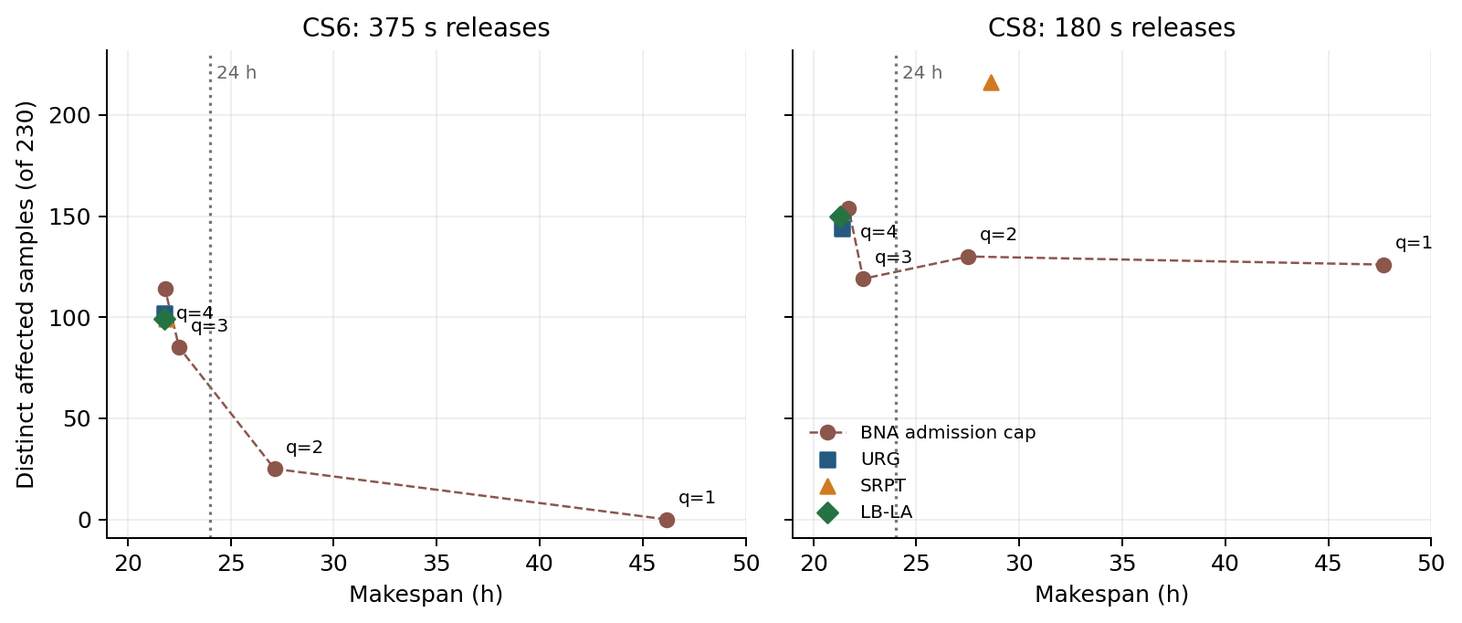
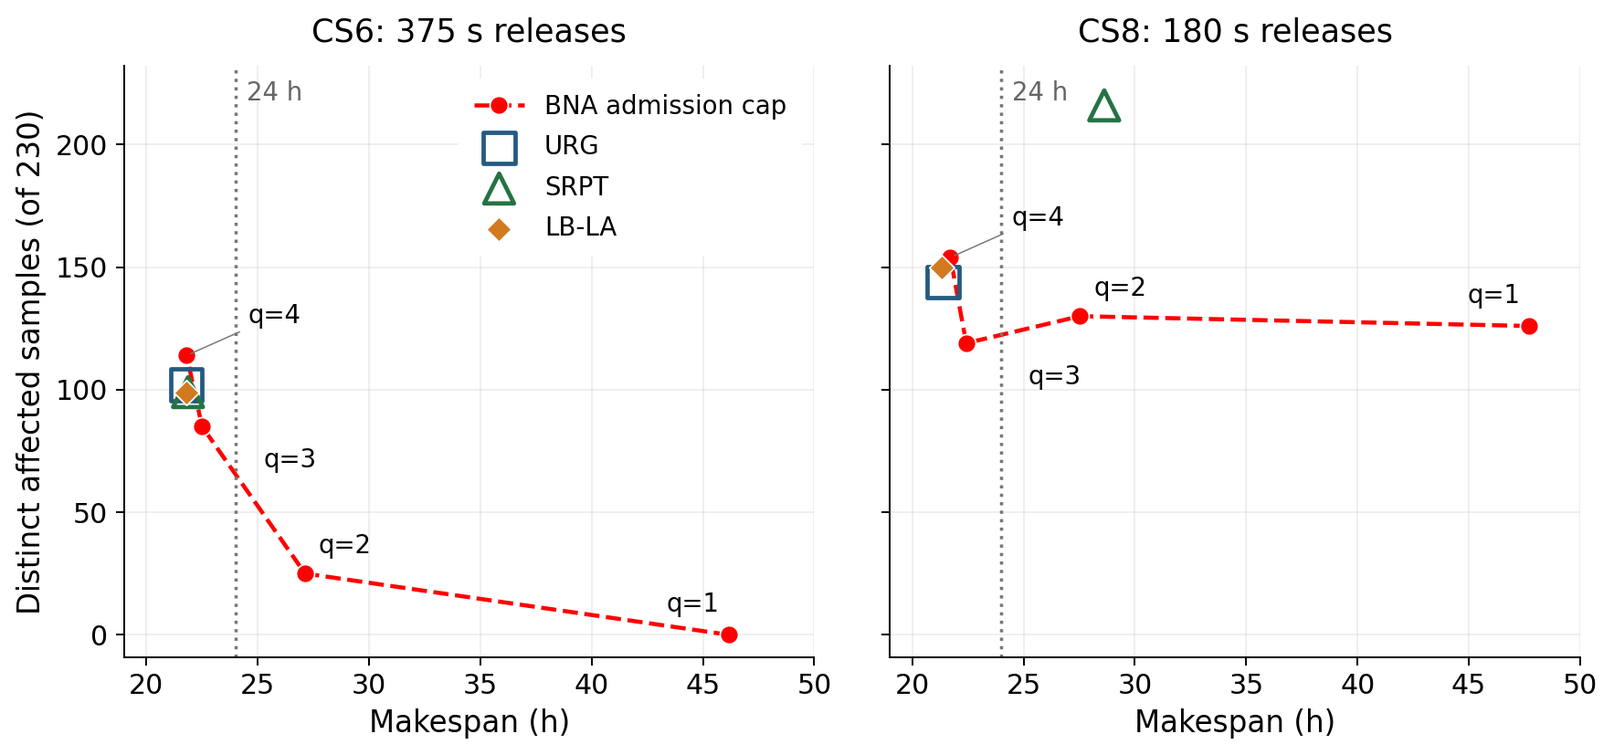
Improve publication figure contrast and fit tables to text width

diff --git a/code/make_tables.py b/code/make_tables.py
@@ -5,14 +5,15 @@ ROOT=Path(__file__).resolve().parents[1]
 OUT=ROOT/'tables';OUT.mkdir(exist_ok=True)
 def rows(name):return list(csv.DictReader((ROOT/'data'/name).open()))
 def num(r,key,d=0):return f'{float(r[key]):,.{d}f}'
-def table(name,caption,label,align,header,body,wide=False):
+def table(name,caption,label,align,header,body,textwidth=False):
     text='\\begin{table}[!htbp]\n'
-    if wide:text+='\\begin{adjustwidth}{-\\extralength}{0cm}\n'
     text+='\\caption{'+caption+'\\label{'+label+'}}\n\\centering\n\\footnotesize\n'
-    text+='\\begin{tabular}{'+align+'}\n\\toprule\n'+header+'\\\\\n\\midrule\n'
+    environment='tabular*' if textwidth else 'tabular'
+    if textwidth:text+='\\setlength{\\tabcolsep}{3pt}\n'
+    spec='{\\textwidth}{@{\\extracolsep{\\fill}}'+align+'@{}}' if textwidth else '{'+align+'}'
+    text+='\\begin{'+environment+'}'+spec+'\n\\toprule\n'+header+'\\\\\n\\midrule\n'
     text+='\n'.join(' & '.join(map(str,row))+'\\\\' for row in body)
-    text+='\n\\bottomrule\n\\end{tabular}\n'
-    if wide:text+='\\end{adjustwidth}\n'
+    text+='\n\\bottomrule\n\\end{'+environment+'}\n'
     text+='\\end{table}\n';(OUT/name).write_text(text)
 
 def main():
@@ -32,43 +33,43 @@ def main():
         r=data['cs6_fullday',p];o=op['cs6_fullday',p]
         b.append([p,f"{float(r['makespan_s'])/3600:.2f}",num(r,'violations'),num(r,'affected_samples'),
                   num(o,'p95_wait_s',1),num(o,'p95_external_s',1),num(o,'max_external_backlog'),f"{float(r['mean_flow_s'])/3600:.2f}"])
-    table('tab_cs6_expanded.tex','Design-day performance at the 300 s budget. Quantiles include all internal stage waits; external waiting is release-to-first-pickup. URG-MECT exactly duplicates URG and is retained as a control in the package.','tab:kpi-cs6','lrrrrrrr','Policy & $C_{\\max}$ (h) & Events & Affected & Wait $P_{95}$ (s) & External $P_{95}$ (s) & Peak queue & Mean flow (h)',b,True)
+    table('tab_cs6_expanded.tex','Design-day performance at the 300 s waiting budget.','tab:kpi-cs6','lrrrrrrr','Policy & \\shortstack{$C_{\\max}$\\\\(h)} & Events & Affected & \\shortstack{Wait\\\\$P_{95}$ (s)} & \\shortstack{External\\\\$P_{95}$ (s)} & \\shortstack{Peak\\\\queue} & \\shortstack{Mean flow\\\\(h)}',b,True)
     b=[]
     for n in names:
         b.append([labels[n]]+[f"{float(data[n,p]['makespan_s'])/3600:.2f} / {data[n,p]['violations']} / {data[n,p]['affected_samples']}" for p in policies])
-    table('tab_primary.tex','Paired policy comparisons. Each entry is makespan in hours / violated stage budgets / distinct affected samples. BNA uses admission cap 2.','tab:summary','lrrrr','Case & URG & SRPT & BNA & LB-LA',b,True)
+    table('tab_primary.tex','Policy comparison: makespan (h) / violation events / affected samples.','tab:summary','lrrrr','Case & URG & SRPT & BNA & LB-LA',b,True)
     b=[]
     for r in rows('lower_bounds.csv'):
         excess=float(r['best_makespan_s'])-float(r['certificate_lb_s'])
         b.append([labels[r['case']],num(r,'capacity_lb_s'),num(r,'robot_lb_s'),num(r,'release_path_lb_s'),num(r,'headtail_lb_s'),num(r,'best_makespan_s'),f'{excess:,.0f}',num(r,'certified_gap_pct',2)])
-    table('tab_gaps_expanded.tex','Operational certificate components. Excess is best-policy makespan minus the certificate in seconds; the percentage gap uses the certificate as denominator. Waiting limits are relaxed.','tab:gaps','lrrrrrrr','Case & Machine & Loaded robot & Path & Head/tail & Best $C_{\\max}$ & Excess & Gap (\\%)',b,True)
+    table('tab_gaps_expanded.tex','Operational certificate components and best-policy gaps; times in seconds.','tab:gaps','lrrrrrrr','Case & Machine & \\shortstack{Loaded\\\\robot} & Path & Head/tail & \\shortstack{Best\\\\$C_{\\max}$} & Excess & \\shortstack{Gap\\\\(\\%)}',b,True)
     b=[]
     for r in rows('waiting_by_transition.csv'):
         if r['case']=='cs6_fullday' and r['policy']=='URG' and int(r['violations']):
             b.append([f"{r['origin_k']} $\\to$ {r['destination_k']}",r['transitions'],r['violations'],f"{100*int(r['violations'])/114:.1f}",num(r,'p50_wait_s',1),num(r,'p95_wait_s',1),num(r,'max_wait_s',1),num(r,'mean_excess_s',1)])
-    table('tab_wait_stages.tex','CS6-URG transitions with violations. Shares refer to the 114 violation events. Waiting quantiles refer to all occurrences of that transition; mean excess refers only to its violations. Module names are given in Table~\\ref{tab:modules}.','tab:wait-stages','lrrrrrrr','Transition & Occurrences & Events & Share (\\%) & $P_{50}$ (s) & $P_{95}$ (s) & Max (s) & Mean excess (s)',b,True)
+    table('tab_wait_stages.tex','Violating transitions in CS6-URG; module codes follow Table~\\ref{tab:modules}.','tab:wait-stages','lrrrrrrr','Transition & Count & Events & \\shortstack{Share\\\\(\\%)} & \\shortstack{$P_{50}$\\\\(s)} & \\shortstack{$P_{95}$\\\\(s)} & \\shortstack{Max\\\\(s)} & \\shortstack{Mean excess\\\\(s)}',b,True)
     b=[]
     for r in rows('waiting_by_class.csv'):
         if r['case']=='cs6_fullday' and r['policy']=='URG':
             b.append([r['sample_type'].replace('SVOC_E',r'SVOC$_E$'),r['n_samples'],r['affected_samples'],r['violations'],num(r,'p95_wait_s',1),num(r,'mean_flow_s',1),num(r,'p95_external_s',1)])
-    table('tab_wait_classes.tex','CS6-URG diagnosis by sample class. Affected counts are distinct jobs, event counts may count a job more than once, and waiting quantiles include every internal stage in the class.','tab:wait-classes','lrrrrrr','Class & Jobs & Affected & Events & Wait $P_{95}$ (s) & Mean flow (s) & External $P_{95}$ (s)',b,True)
+    table('tab_wait_classes.tex','CS6-URG waiting and flow metrics by sample class.','tab:wait-classes','lrrrrrr','Class & Jobs & Affected & Events & \\shortstack{Wait\\\\$P_{95}$ (s)} & \\shortstack{Mean flow\\\\(s)} & \\shortstack{External\\\\$P_{95}$ (s)}',b,True)
     b=[]
-    pretty={'full':'Full score','no_starvation':'No starvation','no_new_violation':r'$w_{viol}=0$','no_overshoot':r'$w_{over}=0$','no_wait_penalties':'Both wait weights zero','no_slack_band':'Slack band removed','selected_wait':'Selected-wait penalty'}
+    pretty={'full':'Full score','no_starvation':'No starvation','no_new_violation':r'$w_{viol}=0$','no_overshoot':r'$w_{over}=0$','no_wait_penalties':r'$w_{viol}=w_{over}=0$','no_slack_band':'Slack band removed','selected_wait':'Selected-wait penalty'}
     for r in rows('ablations.csv'):
         b.append([labels[r['case']],pretty[r['variant']],num(r,'makespan_s',2),r['violations'],r['affected_samples'],r['local_changed_decisions'],r['sequence_changed_epochs']])
-    table('tab_ablations.tex','Score ablations. Local changes compare counterfactual actions at the full-score states; sequence changes compare the independently executed action sequences by epoch. Both counts include sample and destination choices.','tab:ablations','llrrrrr','Case & Variant & $C_{\\max}$ (s) & Events & Affected & Local changes & Sequence changes',b,True)
+    table('tab_ablations.tex','Score ablations: outcomes and changes in local actions or executed sequences.','tab:ablations','llrrrrr','Case & Variant & \\shortstack{$C_{\\max}$\\\\(s)} & Events & Affected & \\shortstack{Local\\\\changes} & \\shortstack{Sequence\\\\changes}',b,True)
     physical={(r['case'],r['variant']):r for r in rows('physical_sensitivity.csv') if r['policy']=='LB-LA'}
     variants=[('separated_nominal','Separate nominal matrices'),('empty_no_dwell','Empty dwell 0 s'),('empty_half_dwell','Empty dwell 7.135 s'),('loaded_dwell_minus20','Loaded dwell $-20\\%$'),('loaded_dwell_plus20','Loaded dwell $+20\\%$'),('traverse_half_speed','Traverse speed 0.75 m/s'),('traverse_double_speed','Traverse speed 3 m/s'),('auxiliary_5.0s','Auxiliary 5 s/transfer'),('auxiliary_10.0s','Auxiliary 10 s/transfer'),('auxiliary_15.0s','Auxiliary 15 s/transfer'),('auxiliary_30.0s','Auxiliary 30 s/transfer')]
     b=[]
     for v,label in variants:
         a=physical['cs6_fullday',v];c=physical['cs8_day180',v]
         b.append([label,f"{float(a['makespan_s'])/3600:.2f}",f"{a['violations']} / {a['affected_samples']}",f"{float(c['makespan_s'])/3600:.2f}",f"{c['violations']} / {c['affected_samples']}"])
-    table('tab_physical.tex','Physical-time stress tests under LB-LA. Event / affected counts use 300 s. Motion variants use separately reconstructed dwell-plus-traverse matrices; auxiliary variants retain the archived matrix and add robot occupation before each pickup. These are uncalibrated scenarios.','tab:physical','lrrrr','Timing scenario & CS6 (h) & CS6 events / affected & CS8 (h) & CS8 events / affected',b,True)
+    table('tab_physical.tex','Uncalibrated physical-time stress tests under LB-LA; events / affected samples at 300 s.','tab:physical','lrrrr',' & \\multicolumn{2}{c}{CS6} & \\multicolumn{2}{c}{CS8}\\\\\\cmidrule(lr){2-3}\\cmidrule(lr){4-5} Timing scenario & $C_{\\max}$ (h) & Events / affected & $C_{\\max}$ (h) & Events / affected',b,True)
     ar={(r['case'],r['admission_cap']):r for r in rows('admission_sensitivity.csv')};b=[]
     for cap in ['1','2','3','4']:
         a=ar['cs6_fullday',cap];c=ar['cs8_day180',cap]
         b.append([cap,f"{float(a['makespan_s'])/3600:.2f}",f"{a['violations']} / {a['affected_samples']}",a['max_external_backlog'],f"{float(a['p95_external_s'])/3600:.2f}",f"{float(c['makespan_s'])/3600:.2f}",f"{c['violations']} / {c['affected_samples']}"])
-    table('tab_admission.tex','Admission-cap sensitivity. The cap counts Method-2 jobs admitted upstream of or at Pipet C until extraction completion and pickup to the next stage. The same cap is applied to analytical and QC2 jobs.','tab:admission','rrrrrrr','Cap & CS6 (h) & Events / affected & Peak external queue & External $P_{95}$ (h) & CS8 (h) & Events / affected',b,True)
+    table('tab_admission.tex','BNA admission-cap sensitivity; events / affected samples at 300 s.','tab:admission','rrrrrrr',' & \\multicolumn{4}{c}{CS6} & \\multicolumn{2}{c}{CS8}\\\\\\cmidrule(lr){2-5}\\cmidrule(lr){6-7} Cap & \\shortstack{$C_{\\max}$\\\\(h)} & \\shortstack{Events /\\\\affected} & \\shortstack{Peak external\\\\queue} & \\shortstack{External\\\\$P_{95}$ (h)} & \\shortstack{$C_{\\max}$\\\\(h)} & \\shortstack{Events /\\\\affected}',b,True)
     b=[]
     for W in ['150.0','300.0','600.0','900.0']:
         subset=[r for r in rows('threshold_sensitivity.csv') if r['case']=='cs6_fullday' and r['threshold_s']==W]
@@ -79,7 +80,7 @@ def main():
         b=[]
         for r in rows('hard_wait_results.csv'):
             b.append([r['instance'],r['n_samples'],r['status'],num(r,'incumbent_s',2),num(r,'dual_bound_s',2),num(r,'max_wait_s',2)])
-        table('tab_hard_wait.tex','Reduced hard-wait checks with a 120 s SCIP limit. Every reported incumbent passes the timestamp and physical-capacity audit. A time limit leaves optimality unresolved; it does not imply infeasibility.','tab:hardwait','lrlrrr','Instance & Jobs & Solver status & Incumbent (s) & Dual bound (s) & Max wait (s)',b,True)
+        table('tab_hard_wait.tex','Reduced hard-wait checks with a 120 s SCIP limit.','tab:hardwait','lrlrrr','Instance & Jobs & Solver status & \\shortstack{Incumbent\\\\(s)} & \\shortstack{Dual bound\\\\(s)} & \\shortstack{Max wait\\\\(s)}',b,True)
     if args.paper_dir:
         import shutil
         (args.paper_dir/'tables').mkdir(exist_ok=True)

diff --git a/code/make_figures.py b/code/make_figures.py
@@ -18,7 +18,7 @@ def save(fig,name):
     plt.close(fig)
 def csvrows(n):return list(csv.DictReader((ROOT/'data'/n).open()))
 def trace(case,policy):return json.loads((ROOT/'validation/corrected_runs'/case/policy/'trace.json').read_text())
-COLORS={'URG':'#245a81','SRPT':'#d17a20','BNA':'#8c564b','LB-LA':'#257343'}
+COLORS={'URG':'#245a81','SRPT':'#257343','BNA':'#ff0000','LB-LA':'#d17a20'}
 stagecolors={6:'#80a9c4',7:'#99c998',8:'#dedede',9:'#4e9b8e',10:'#b28abc',11:'#d7a2b2',12:'#b7cbd6',13:'#6580ae',14:'#9c9c9c'}
 stagenames={6:'De-capper, 1000 mL',7:'Dosing (Pipet A)',8:'Stirring',9:'HC extraction (Pipet B)',10:'SVOC extraction (Pipet C)',11:'Concentration',12:'De-capper, centrifuge',13:'Centrifugation',14:'GC-vial transfer (Pipet D)'}
 r=trace('cs1_nominal','LB-LA');cfg=json.loads((ROOT/'instances/cs1_nominal_config.json').read_text());types={s['id']:s['type'] for s in cfg['samples']}
@@ -56,18 +56,36 @@ ax.set_xscale('log');ax.set_xlim(1,4000);ax.invert_yaxis();ax.set_xlabel('Intern
 ax.grid(axis='x',alpha=.2);ax.legend(loc='lower right',frameon=False);fig.tight_layout();save(fig,'fig_waiting_cs6')
 
 primary={(r['case'],r['policy']):r for r in csvrows('kpi_campaign.csv')};ad=csvrows('admission_sensitivity.csv')
-fig,axes=plt.subplots(1,2,figsize=(9,3.9),sharey=True)
-for ax,case,title in zip(axes,['cs6_fullday','cs8_day180'],['CS6: 375 s releases','CS8: 180 s releases']):
-    subset=[r for r in ad if r['case']==case];xs=[float(r['makespan_s'])/3600 for r in subset];ys=[int(r['affected_samples']) for r in subset]
-    ax.plot(xs,ys,'o--',color=COLORS['BNA'],ms=6,lw=1,label='BNA admission cap')
-    for r,x,y in zip(subset,xs,ys):ax.annotate('q='+r['admission_cap'],(x,y),xytext=(5,7 if r['admission_cap']!='4' else -13),textcoords='offset points',fontsize=8)
-    for p,marker in [('URG','s'),('SRPT','^'),('LB-LA','D')]:
-        r=primary[case,p];x=float(r['makespan_s'])/3600;y=int(r['affected_samples'])
-        ax.scatter(x,y,color=COLORS[p],marker=marker,s=40,label=p,zorder=4)
-    ax.axvline(24,color='#777',ls=':',lw=1.3);ax.text(24.3,218,'24 h',color='#666',fontsize=8)
-    ax.set_title(title,fontsize=11);ax.set_xlabel('Makespan (h)');ax.grid(alpha=.2);ax.set_xlim(19,50);ax.set_ylim(-9,232)
-axes[0].set_ylabel('Distinct affected samples (of 230)');axes[1].legend(fontsize=8,frameon=False,loc='lower left')
-fig.tight_layout();save(fig,'fig_admission_tradeoff')
+# Open, differently sized outlines keep coincident policies visible at their
+# actual coordinates; no jitter or displacement is applied to the results.
+with plt.rc_context({'font.size':13,'axes.labelsize':13,'axes.titlesize':14,
+                     'xtick.labelsize':12,'ytick.labelsize':12}):
+    fig,axes=plt.subplots(1,2,figsize=(10,4.8),sharey=True)
+    for ax,case,title in zip(axes,['cs6_fullday','cs8_day180'],['CS6: 375 s releases','CS8: 180 s releases']):
+        subset=[r for r in ad if r['case']==case]
+        xs=[float(r['makespan_s'])/3600 for r in subset]
+        ys=[int(r['affected_samples']) for r in subset]
+        ax.plot(xs,ys,'o--',color=COLORS['BNA'],ms=8,lw=1.8,
+                markeredgecolor='white',markeredgewidth=.7,label='BNA admission cap')
+        for r,x,y in zip(subset,xs,ys):
+            cap=r['admission_cap']
+            offset={'1':(-4,10),'2':(6,9),'3':(27,-18),'4':(27,14)}[cap]
+            ax.annotate('q='+cap,(x,y),xytext=offset,textcoords='offset points',
+                        fontsize=11,ha='right' if cap=='1' else 'left',arrowprops={'arrowstyle':'-','color':'#777','lw':.6}
+                        if cap=='4' else None)
+        for p,marker,size,filled in [('URG','s',190,False),('SRPT','^',170,False),('LB-LA','D',60,True)]:
+            r=primary[case,p];x=float(r['makespan_s'])/3600;y=int(r['affected_samples'])
+            ax.scatter(x,y,facecolors=COLORS[p] if filled else 'none',
+                       edgecolors='white' if filled else COLORS[p],linewidths=.7 if filled else 1.9,
+                       marker=marker,s=size,label=p,zorder=4)
+        ax.axvline(24,color='#777',ls=':',lw=1.4)
+        ax.text(24.5,218,'24 h',color='#666',fontsize=11)
+        ax.set_title(title,pad=11);ax.set_xlabel('Makespan (h)')
+        ax.grid(alpha=.2);ax.set_xlim(19,50);ax.set_ylim(-9,232)
+    axes[0].set_ylabel('Distinct affected samples (of 230)')
+    axes[0].legend(fontsize=11,frameon=True,facecolor='white',edgecolor='none',
+                   framealpha=.95,loc='upper right',borderpad=.6,labelspacing=.6)
+    fig.tight_layout(w_pad=1.7);save(fig,'fig_admission_tradeoff')
 
 fig,axes=plt.subplots(1,2,figsize=(9,3.2),sharey=True)
 for ax,case,title in zip(axes,['cs6_fullday','cs8_day180'],['CS6, URG','CS8, URG']):

diff --git a/tables/tab_ablations.tex b/tables/tab_ablations.tex
@@ -1,34 +1,33 @@
 \begin{table}[!htbp]
-\begin{adjustwidth}{-\extralength}{0cm}
-\caption{Score ablations. Local changes compare counterfactual actions at the full-score states; sequence changes compare the independently executed action sequences by epoch. Both counts include sample and destination choices.\label{tab:ablations}}
+\caption{Score ablations: outcomes and changes in local actions or executed sequences.\label{tab:ablations}}
 \centering
 \footnotesize
-\begin{tabular}{llrrrrr}
+\setlength{\tabcolsep}{3pt}
+\begin{tabular*}{\textwidth}{@{\extracolsep{\fill}}llrrrrr@{}}
 \toprule
-Case & Variant & $C_{\max}$ (s) & Events & Affected & Local changes & Sequence changes\\
+Case & Variant & \shortstack{$C_{\max}$\\(s)} & Events & Affected & \shortstack{Local\\changes} & \shortstack{Sequence\\changes}\\
 \midrule
 CS2 & Full score & 10,909.04 & 10 & 10 & 0 & 0\\
 CS2 & No starvation & 10,908.82 & 10 & 10 & 1 & 11\\
 CS2 & $w_{viol}=0$ & 10,909.04 & 10 & 10 & 0 & 0\\
 CS2 & $w_{over}=0$ & 10,912.42 & 10 & 10 & 5 & 61\\
-CS2 & Both wait weights zero & 10,912.42 & 10 & 10 & 5 & 61\\
+CS2 & $w_{viol}=w_{over}=0$ & 10,912.42 & 10 & 10 & 5 & 61\\
 CS2 & Slack band removed & 10,881.41 & 10 & 10 & 2 & 43\\
 CS2 & Selected-wait penalty & 10,907.89 & 10 & 10 & 3 & 31\\
 CS6 & Full score & 78,487.14 & 113 & 99 & 0 & 0\\
 CS6 & No starvation & 78,458.37 & 113 & 99 & 2 & 11\\
 CS6 & $w_{viol}=0$ & 78,487.14 & 113 & 99 & 0 & 0\\
 CS6 & $w_{over}=0$ & 78,448.44 & 96 & 92 & 48 & 1208\\
-CS6 & Both wait weights zero & 78,448.44 & 96 & 92 & 51 & 1208\\
+CS6 & $w_{viol}=w_{over}=0$ & 78,448.44 & 96 & 92 & 51 & 1208\\
 CS6 & Slack band removed & 78,433.70 & 111 & 98 & 3 & 514\\
 CS6 & Selected-wait penalty & 78,517.65 & 101 & 95 & 23 & 1256\\
 CS9 & Full score & 76,510.14 & 284 & 164 & 0 & 0\\
 CS9 & No starvation & 76,510.14 & 284 & 164 & 0 & 0\\
 CS9 & $w_{viol}=0$ & 76,509.00 & 286 & 165 & 3 & 106\\
 CS9 & $w_{over}=0$ & 76,840.13 & 251 & 162 & 145 & 1497\\
-CS9 & Both wait weights zero & 76,826.70 & 248 & 161 & 146 & 1497\\
+CS9 & $w_{viol}=w_{over}=0$ & 76,826.70 & 248 & 161 & 146 & 1497\\
 CS9 & Slack band removed & 76,670.34 & 287 & 168 & 7 & 906\\
 CS9 & Selected-wait penalty & 76,720.69 & 258 & 164 & 92 & 1469\\
 \bottomrule
-\end{tabular}
-\end{adjustwidth}
+\end{tabular*}
 \end{table}

diff --git a/tables/tab_physical.tex b/tables/tab_physical.tex
@@ -1,11 +1,11 @@
 \begin{table}[!htbp]
-\begin{adjustwidth}{-\extralength}{0cm}
-\caption{Physical-time stress tests under LB-LA. Event / affected counts use 300 s. Motion variants use separately reconstructed dwell-plus-traverse matrices; auxiliary variants retain the archived matrix and add robot occupation before each pickup. These are uncalibrated scenarios.\label{tab:physical}}
+\caption{Uncalibrated physical-time stress tests under LB-LA; events / affected samples at 300 s.\label{tab:physical}}
 \centering
 \footnotesize
-\begin{tabular}{lrrrr}
+\setlength{\tabcolsep}{3pt}
+\begin{tabular*}{\textwidth}{@{\extracolsep{\fill}}lrrrr@{}}
 \toprule
-Timing scenario & CS6 (h) & CS6 events / affected & CS8 (h) & CS8 events / affected\\
+ & \multicolumn{2}{c}{CS6} & \multicolumn{2}{c}{CS8}\\\cmidrule(lr){2-3}\cmidrule(lr){4-5} Timing scenario & $C_{\max}$ (h) & Events / affected & $C_{\max}$ (h) & Events / affected\\
 \midrule
 Separate nominal matrices & 21.79 & 113 / 99 & 21.27 & 248 / 146\\
 Empty dwell 0 s & 21.73 & 68 / 68 & 20.22 & 213 / 144\\
@@ -19,6 +19,5 @@ Auxiliary 10 s/transfer & 22.66 & 236 / 160 & 22.47 & 261 / 174\\
 Auxiliary 15 s/transfer & 23.15 & 259 / 180 & 23.30 & 325 / 199\\
 Auxiliary 30 s/transfer & 28.91 & 242 / 165 & 28.75 & 260 / 181\\
 \bottomrule
-\end{tabular}
-\end{adjustwidth}
+\end{tabular*}
 \end{table}

diff --git a/tables/tab_wait_stages.tex b/tables/tab_wait_stages.tex
@@ -1,11 +1,11 @@
 \begin{table}[!htbp]
-\begin{adjustwidth}{-\extralength}{0cm}
-\caption{CS6-URG transitions with violations. Shares refer to the 114 violation events. Waiting quantiles refer to all occurrences of that transition; mean excess refers only to its violations. Module names are given in Table~\ref{tab:modules}.\label{tab:wait-stages}}
+\caption{Violating transitions in CS6-URG; module codes follow Table~\ref{tab:modules}.\label{tab:wait-stages}}
 \centering
 \footnotesize
-\begin{tabular}{lrrrrrrr}
+\setlength{\tabcolsep}{3pt}
+\begin{tabular*}{\textwidth}{@{\extracolsep{\fill}}lrrrrrrr@{}}
 \toprule
-Transition & Occurrences & Events & Share (\%) & $P_{50}$ (s) & $P_{95}$ (s) & Max (s) & Mean excess (s)\\
+Transition & Count & Events & \shortstack{Share\\(\%)} & \shortstack{$P_{50}$\\(s)} & \shortstack{$P_{95}$\\(s)} & \shortstack{Max\\(s)} & \shortstack{Mean excess\\(s)}\\
 \midrule
 6 $\to$ 7 & 230 & 1 & 0.9 & 43.6 & 226.0 & 315.8 & 15.8\\
 8 $\to$ 10 & 80 & 78 & 68.4 & 1,077.3 & 2,235.8 & 2,371.7 & 850.8\\
@@ -14,6 +14,5 @@ Transition & Occurrences & Events & Share (\%) & $P_{50}$ (s) & $P_{95}$ (s) & M
 12 $\to$ 13 & 30 & 7 & 6.1 & 42.4 & 975.4 & 1,178.5 & 553.1\\
 13 $\to$ 10 & 30 & 22 & 19.3 & 554.1 & 1,688.3 & 1,711.0 & 656.4\\
 \bottomrule
-\end{tabular}
-\end{adjustwidth}
+\end{tabular*}
 \end{table}

diff --git a/tables/tab_admission.tex b/tables/tab_admission.tex
@@ -1,17 +1,16 @@
 \begin{table}[!htbp]
-\begin{adjustwidth}{-\extralength}{0cm}
-\caption{Admission-cap sensitivity. The cap counts Method-2 jobs admitted upstream of or at Pipet C until extraction completion and pickup to the next stage. The same cap is applied to analytical and QC2 jobs.\label{tab:admission}}
+\caption{BNA admission-cap sensitivity; events / affected samples at 300 s.\label{tab:admission}}
 \centering
 \footnotesize
-\begin{tabular}{rrrrrrr}
+\setlength{\tabcolsep}{3pt}
+\begin{tabular*}{\textwidth}{@{\extracolsep{\fill}}rrrrrrr@{}}
 \toprule
-Cap & CS6 (h) & Events / affected & Peak external queue & External $P_{95}$ (h) & CS8 (h) & Events / affected\\
+ & \multicolumn{4}{c}{CS6} & \multicolumn{2}{c}{CS8}\\\cmidrule(lr){2-5}\cmidrule(lr){6-7} Cap & \shortstack{$C_{\max}$\\(h)} & \shortstack{Events /\\affected} & \shortstack{Peak external\\queue} & \shortstack{External\\$P_{95}$ (h)} & \shortstack{$C_{\max}$\\(h)} & \shortstack{Events /\\affected}\\
 \midrule
 1 & 46.16 & 0 / 0 & 62 & 21.86 & 47.70 & 149 / 126\\
 2 & 27.13 & 25 / 25 & 23 & 4.97 & 27.53 & 137 / 130\\
 3 & 22.50 & 86 / 85 & 6 & 0.88 & 22.42 & 137 / 119\\
 4 & 21.81 & 122 / 114 & 3 & 0.30 & 21.71 & 185 / 154\\
 \bottomrule
-\end{tabular}
-\end{adjustwidth}
+\end{tabular*}
 \end{table}

diff --git a/tables/tab_gaps_expanded.tex b/tables/tab_gaps_expanded.tex
@@ -1,11 +1,11 @@
 \begin{table}[!htbp]
-\begin{adjustwidth}{-\extralength}{0cm}
-\caption{Operational certificate components. Excess is best-policy makespan minus the certificate in seconds; the percentage gap uses the certificate as denominator. Waiting limits are relaxed.\label{tab:gaps}}
+\caption{Operational certificate components and best-policy gaps; times in seconds.\label{tab:gaps}}
 \centering
 \footnotesize
-\begin{tabular}{lrrrrrrr}
+\setlength{\tabcolsep}{3pt}
+\begin{tabular*}{\textwidth}{@{\extracolsep{\fill}}lrrrrrrr@{}}
 \toprule
-Case & Machine & Loaded robot & Path & Head/tail & Best $C_{\max}$ & Excess & Gap (\%)\\
+Case & Machine & \shortstack{Loaded\\robot} & Path & Head/tail & \shortstack{Best\\$C_{\max}$} & Excess & \shortstack{Gap\\(\%)}\\
 \midrule
 CS1 & 6,600 & 2,474 & 10,349 & 10,228 & 11,106 & 758 & 7.32\\
 CS2 & 6,600 & 2,474 & 6,704 & 10,033 & 10,909 & 877 & 8.74\\
@@ -23,6 +23,5 @@ CS13 & 52,800 & 24,735 & 77,729 & 56,428 & 78,088 & 359 & 0.46\\
 CS14 & 52,800 & 24,735 & 39,104 & 55,964 & 64,943 & 8,980 & 16.05\\
 CS15 & 66,000 & 24,735 & 39,104 & 69,433 & 76,852 & 7,420 & 10.69\\
 \bottomrule
-\end{tabular}
-\end{adjustwidth}
+\end{tabular*}
 \end{table}

diff --git a/tables/tab_cs6_expanded.tex b/tables/tab_cs6_expanded.tex
@@ -1,17 +1,16 @@
 \begin{table}[!htbp]
-\begin{adjustwidth}{-\extralength}{0cm}
-\caption{Design-day performance at the 300 s budget. Quantiles include all internal stage waits; external waiting is release-to-first-pickup. URG-MECT exactly duplicates URG and is retained as a control in the package.\label{tab:kpi-cs6}}
+\caption{Design-day performance at the 300 s waiting budget.\label{tab:kpi-cs6}}
 \centering
 \footnotesize
-\begin{tabular}{lrrrrrrr}
+\setlength{\tabcolsep}{3pt}
+\begin{tabular*}{\textwidth}{@{\extracolsep{\fill}}lrrrrrrr@{}}
 \toprule
-Policy & $C_{\max}$ (h) & Events & Affected & Wait $P_{95}$ (s) & External $P_{95}$ (s) & Peak queue & Mean flow (h)\\
+Policy & \shortstack{$C_{\max}$\\(h)} & Events & Affected & \shortstack{Wait\\$P_{95}$ (s)} & \shortstack{External\\$P_{95}$ (s)} & \shortstack{Peak\\queue} & \shortstack{Mean flow\\(h)}\\
 \midrule
 URG & 21.80 & 114 & 102 & 912.8 & 159.1 & 2 & 1.19\\
 SRPT & 21.87 & 103 & 99 & 735.7 & 128.3 & 2 & 1.21\\
 BNA & 27.13 & 25 & 25 & 194.7 & 17,909.8 & 23 & 2.47\\
 LB-LA & 21.80 & 113 & 99 & 672.8 & 135.8 & 2 & 1.17\\
 \bottomrule
-\end{tabular}
-\end{adjustwidth}
+\end{tabular*}
 \end{table}

diff --git a/tables/tab_wait_classes.tex b/tables/tab_wait_classes.tex
@@ -1,11 +1,11 @@
 \begin{table}[!htbp]
-\begin{adjustwidth}{-\extralength}{0cm}
-\caption{CS6-URG diagnosis by sample class. Affected counts are distinct jobs, event counts may count a job more than once, and waiting quantiles include every internal stage in the class.\label{tab:wait-classes}}
+\caption{CS6-URG waiting and flow metrics by sample class.\label{tab:wait-classes}}
 \centering
 \footnotesize
-\begin{tabular}{lrrrrrr}
+\setlength{\tabcolsep}{3pt}
+\begin{tabular*}{\textwidth}{@{\extracolsep{\fill}}lrrrrrr@{}}
 \toprule
-Class & Jobs & Affected & Events & Wait $P_{95}$ (s) & Mean flow (s) & External $P_{95}$ (s)\\
+Class & Jobs & Affected & Events & \shortstack{Wait\\$P_{95}$ (s)} & \shortstack{Mean flow\\(s)} & \shortstack{External\\$P_{95}$ (s)}\\
 \midrule
 Blank & 10 & 0 & 0 & 194.2 & 3,875.3 & 172.2\\
 HC & 100 & 2 & 2 & 170.7 & 3,794.7 & 118.5\\
@@ -14,6 +14,5 @@ QC2 & 10 & 10 & 10 & 989.3 & 4,564.4 & 134.4\\
 SVOC & 70 & 68 & 70 & 1,381.6 & 4,666.5 & 152.1\\
 SVOC$_E$ & 30 & 22 & 32 & 978.5 & 5,203.2 & 166.7\\
 \bottomrule
-\end{tabular}
-\end{adjustwidth}
+\end{tabular*}
 \end{table}

diff --git a/tables/tab_hard_wait.tex b/tables/tab_hard_wait.tex
@@ -1,16 +1,15 @@
 \begin{table}[!htbp]
-\begin{adjustwidth}{-\extralength}{0cm}
-\caption{Reduced hard-wait checks with a 120 s SCIP limit. Every reported incumbent passes the timestamp and physical-capacity audit. A time limit leaves optimality unresolved; it does not imply infeasibility.\label{tab:hardwait}}
+\caption{Reduced hard-wait checks with a 120 s SCIP limit.\label{tab:hardwait}}
 \centering
 \footnotesize
-\begin{tabular}{lrlrrr}
+\setlength{\tabcolsep}{3pt}
+\begin{tabular*}{\textwidth}{@{\extracolsep{\fill}}lrlrrr@{}}
 \toprule
-Instance & Jobs & Solver status & Incumbent (s) & Dual bound (s) & Max wait (s)\\
+Instance & Jobs & Solver status & \shortstack{Incumbent\\(s)} & \shortstack{Dual bound\\(s)} & \shortstack{Max wait\\(s)}\\
 \midrule
 HW3 & 3 & optimal & 4,603.08 & 4,603.08 & 300.00\\
 HW5 & 5 & optimal & 5,384.39 & 5,384.39 & 300.00\\
 HW8 & 8 & timelimit & 10,377.97 & 5,151.41 & 300.00\\
 \bottomrule
-\end{tabular}
-\end{adjustwidth}
+\end{tabular*}
 \end{table}

diff --git a/tables/tab_primary.tex b/tables/tab_primary.tex
@@ -1,9 +1,9 @@
 \begin{table}[!htbp]
-\begin{adjustwidth}{-\extralength}{0cm}
-\caption{Paired policy comparisons. Each entry is makespan in hours / violated stage budgets / distinct affected samples. BNA uses admission cap 2.\label{tab:summary}}
+\caption{Policy comparison: makespan (h) / violation events / affected samples.\label{tab:summary}}
 \centering
 \footnotesize
-\begin{tabular}{lrrrr}
+\setlength{\tabcolsep}{3pt}
+\begin{tabular*}{\textwidth}{@{\extracolsep{\fill}}lrrrr@{}}
 \toprule
 Case & URG & SRPT & BNA & LB-LA\\
 \midrule
@@ -23,6 +23,5 @@ CS13 & 21.70 / 47 / 47 & 21.73 / 46 / 45 & 24.26 / 19 / 18 & 21.69 / 50 / 48\\
 CS14 & 18.04 / 296 / 201 & 24.59 / 338 / 209 & 25.37 / 144 / 137 & 18.23 / 245 / 188\\
 CS15 & 21.49 / 236 / 136 & 28.70 / 440 / 213 & 26.77 / 136 / 129 & 21.35 / 244 / 145\\
 \bottomrule
-\end{tabular}
-\end{adjustwidth}
+\end{tabular*}
 \end{table}

diff --git a/README.md b/README.md
@@ -1,10 +1,12 @@
 # Robotic water-sample preparation cell
 
-Replication package **3.0.0**, released 17 October 2026, for **Design and Scheduling of an Automated Water-Sample Preparation Cell: Capacity Diagnosis and Pre-Commissioning Assessment**, prepared for **Technologies**.
+Replication package **3.0.1**, released 17 October 2026, for **Design and Scheduling of an Automated Water-Sample Preparation Cell: Capacity Diagnosis and Pre-Commissioning Assessment**, prepared for **Technologies**.
 
 Repository: https://github.com/fnuni/2026apsc
 
-Frozen version: https://github.com/fnuni/2026apsc/tree/v3.0.0
+Frozen version: https://github.com/fnuni/2026apsc/tree/v3.0.1
+
+Version 3.0.1 updates figure readability and fits publication tables to the manuscript text width. Experimental inputs, policies, traces, and numerical results are unchanged from 3.0.0.
 
 The study diagnoses a nominal 230-job day that is close to its relaxed operational makespan bound but has substantial internal waiting violations. It compares four distinct rules, includes an equivalent implementation control, and separates internal timing, external delay, and completion time. No chemical recovery, economic return, or sustainability benefit is measured.
 
